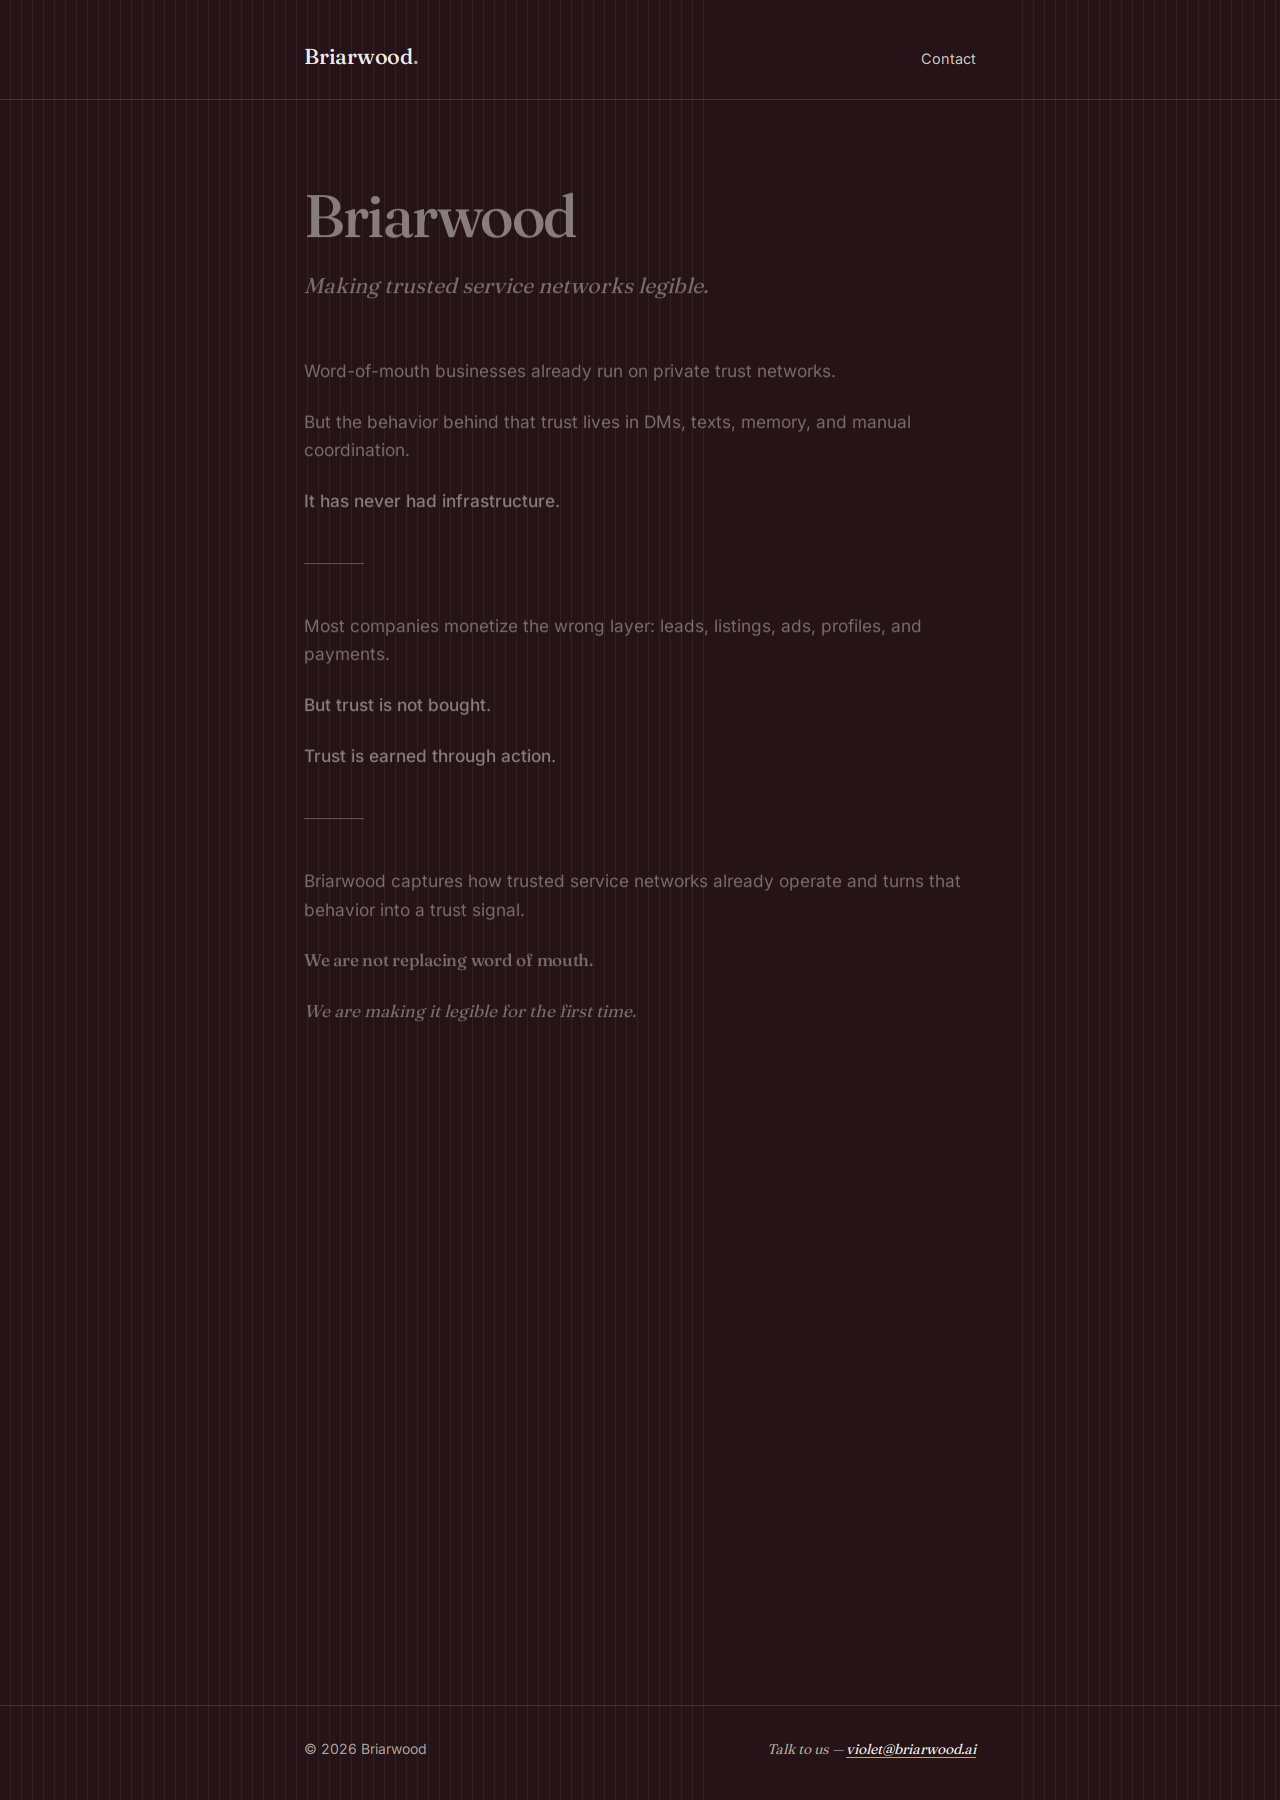
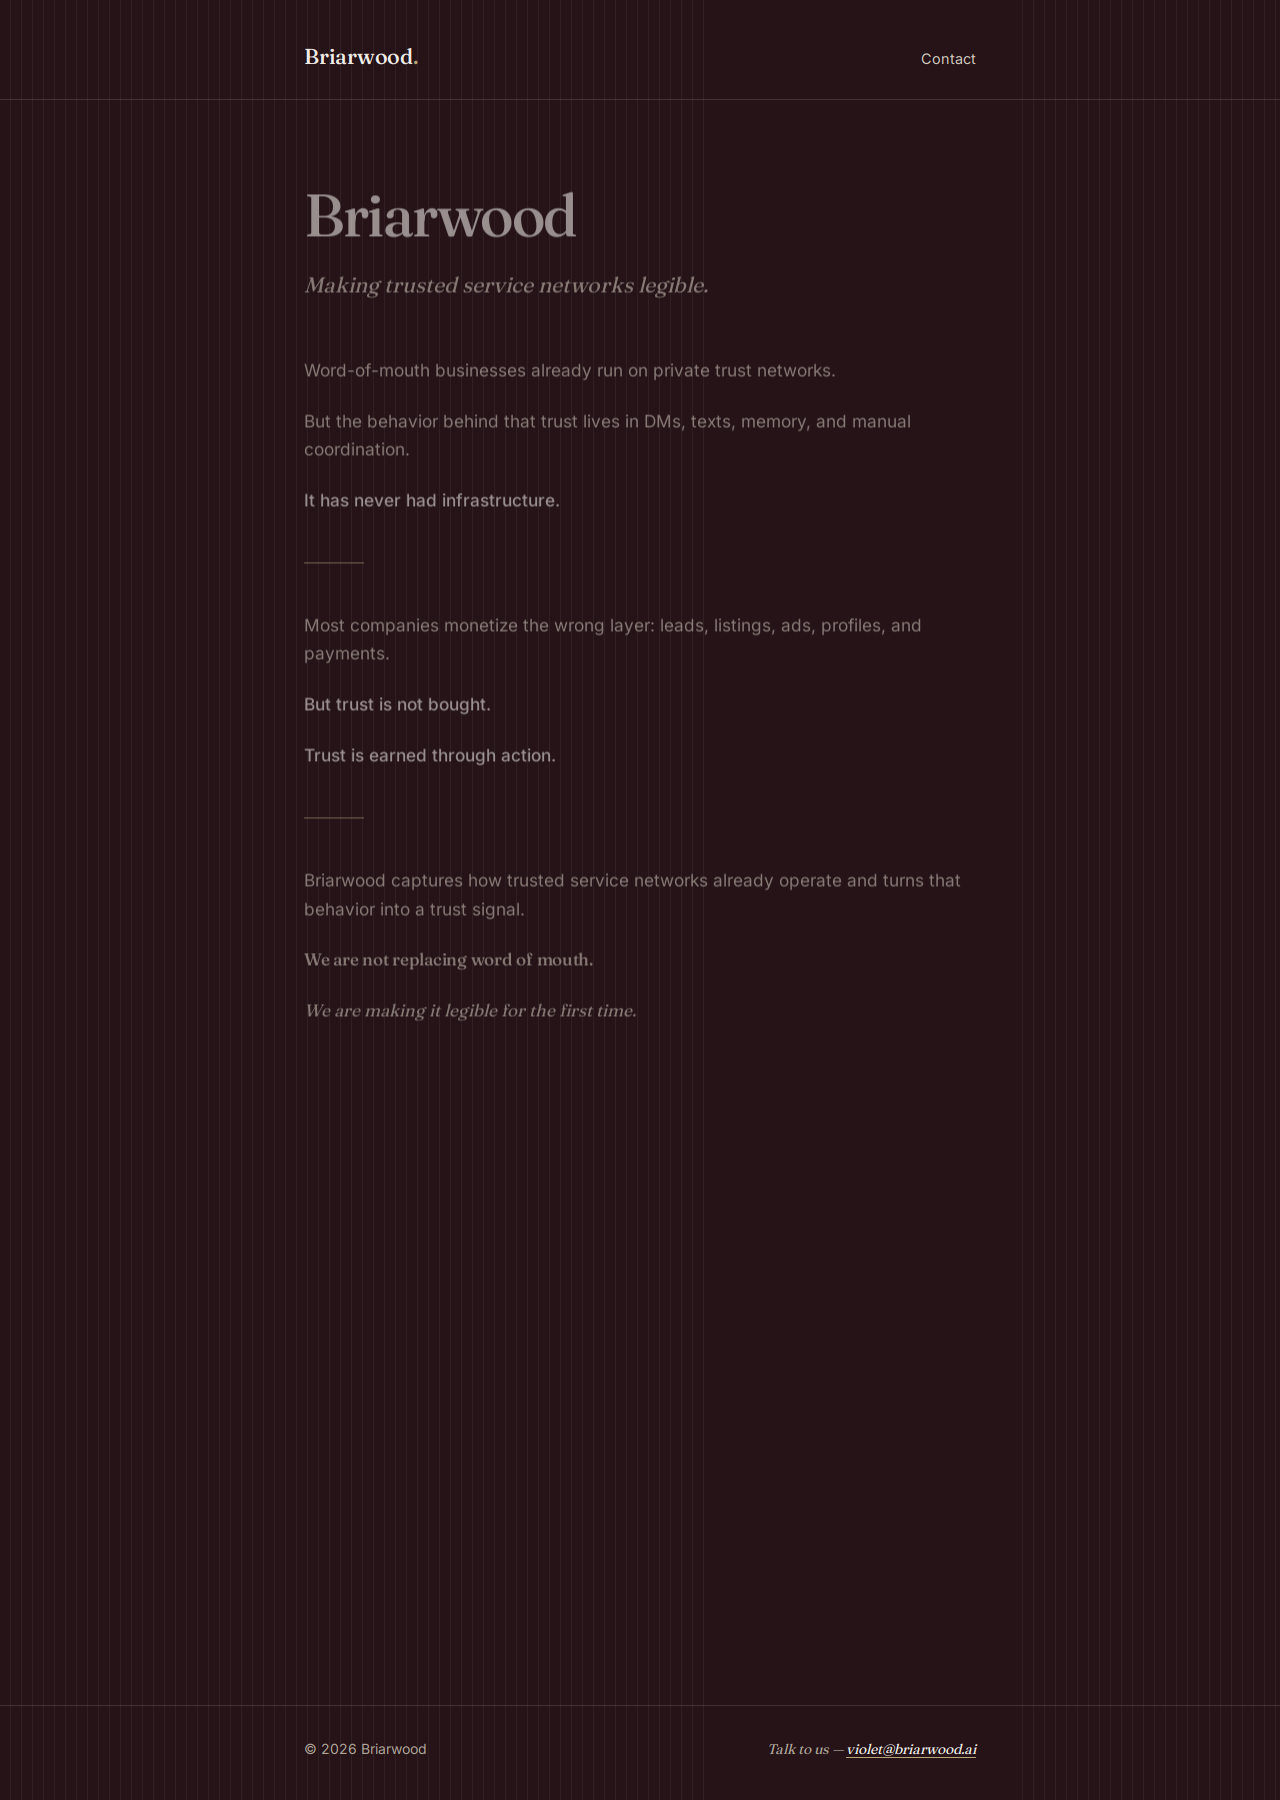
Fix page gap by extending background to entire viewport height
Apply background gradient to the html element, ensuring consistent page background fill and resolving the gap issue below the footer.

Replit-Commit-Author: Agent
Replit-Commit-Session-Id: 009ee89d-49d3-4709-8368-a0944dae4585
Replit-Commit-Checkpoint-Type: full_checkpoint
Replit-Commit-Event-Id: 2646c49b-619d-4431-8d82-406523dcaf8f
Replit-Commit-Screenshot-Url: https://storage.googleapis.com/screenshot-production-us-central1/e8599704-1e72-4097-8c86-37ef455a3ec6/009ee89d-49d3-4709-8368-a0944dae4585/TP9DBTt
Replit-Helium-Checkpoint-Created: true

diff --git a/briarwood-landing/index.html b/briarwood-landing/index.html
@@ -34,7 +34,18 @@
 
 * { box-sizing: border-box; margin: 0; padding: 0; }
 
-html { scroll-behavior: smooth; }
+html {
+  scroll-behavior: smooth;
+  background-color: hsl(345 31% 11%);
+  background-image: repeating-linear-gradient(
+    to right,
+    transparent 0,
+    transparent 5px,
+    hsla(36, 24%, 92%, 0.055) 5px,
+    hsla(36, 24%, 92%, 0.055) 5.5px
+  );
+  min-height: 100%;
+}
 
 body {
   background-color: var(--bg);
